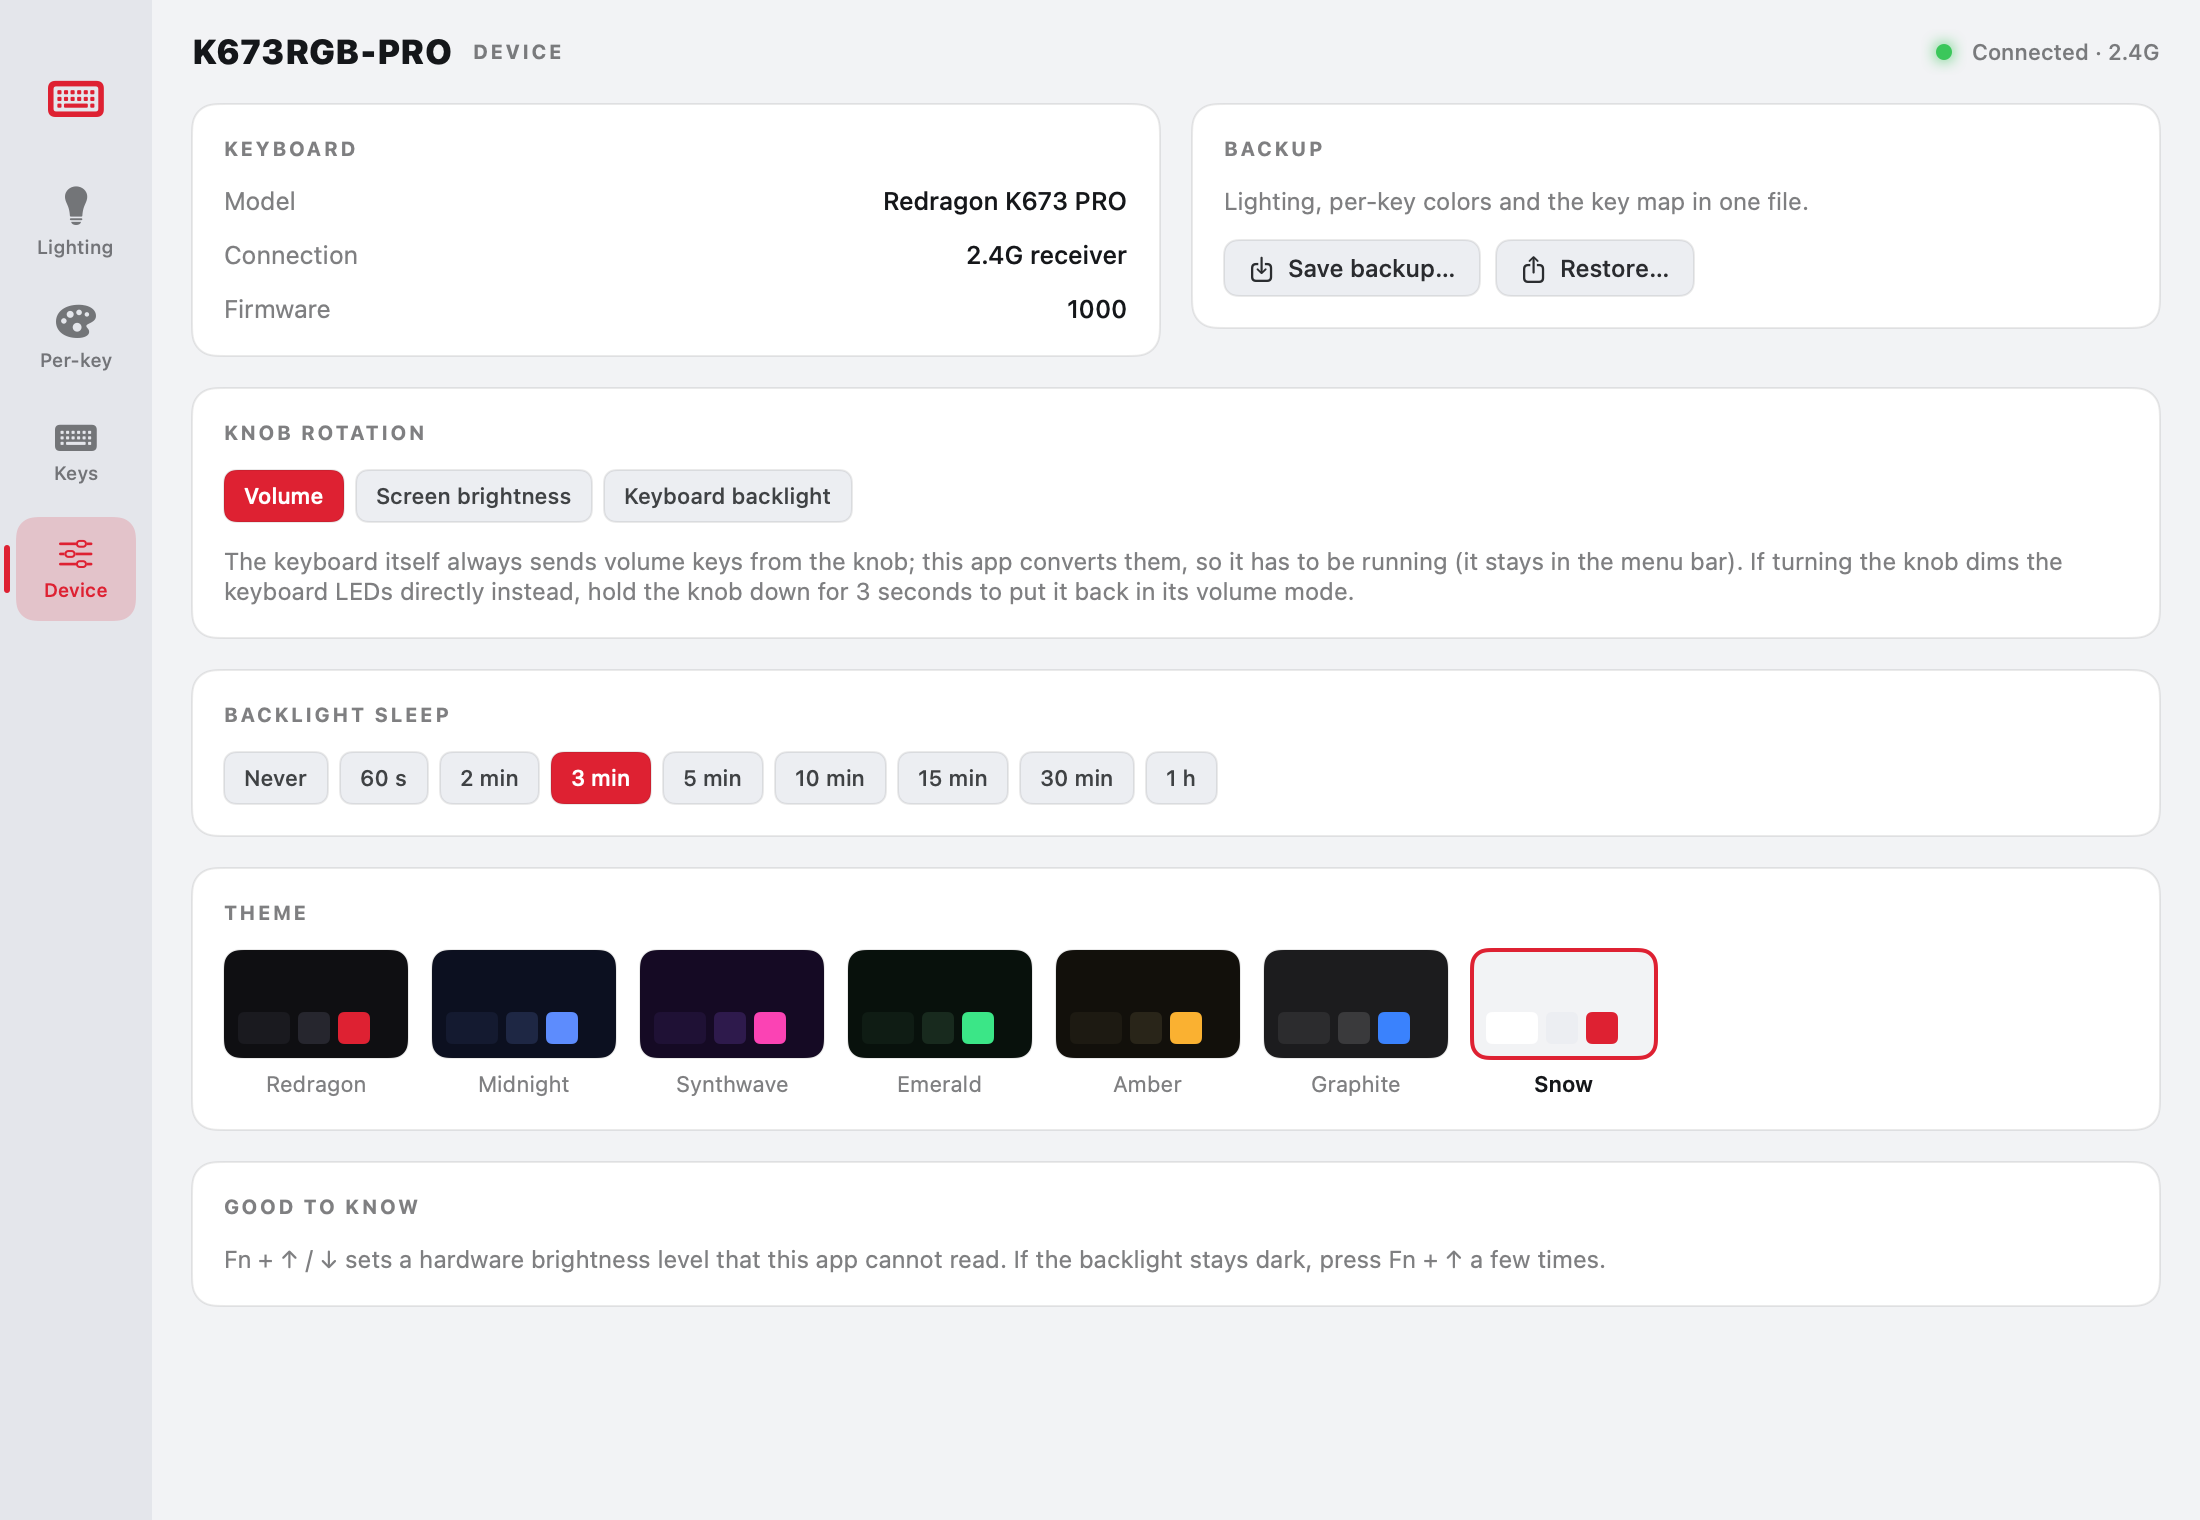
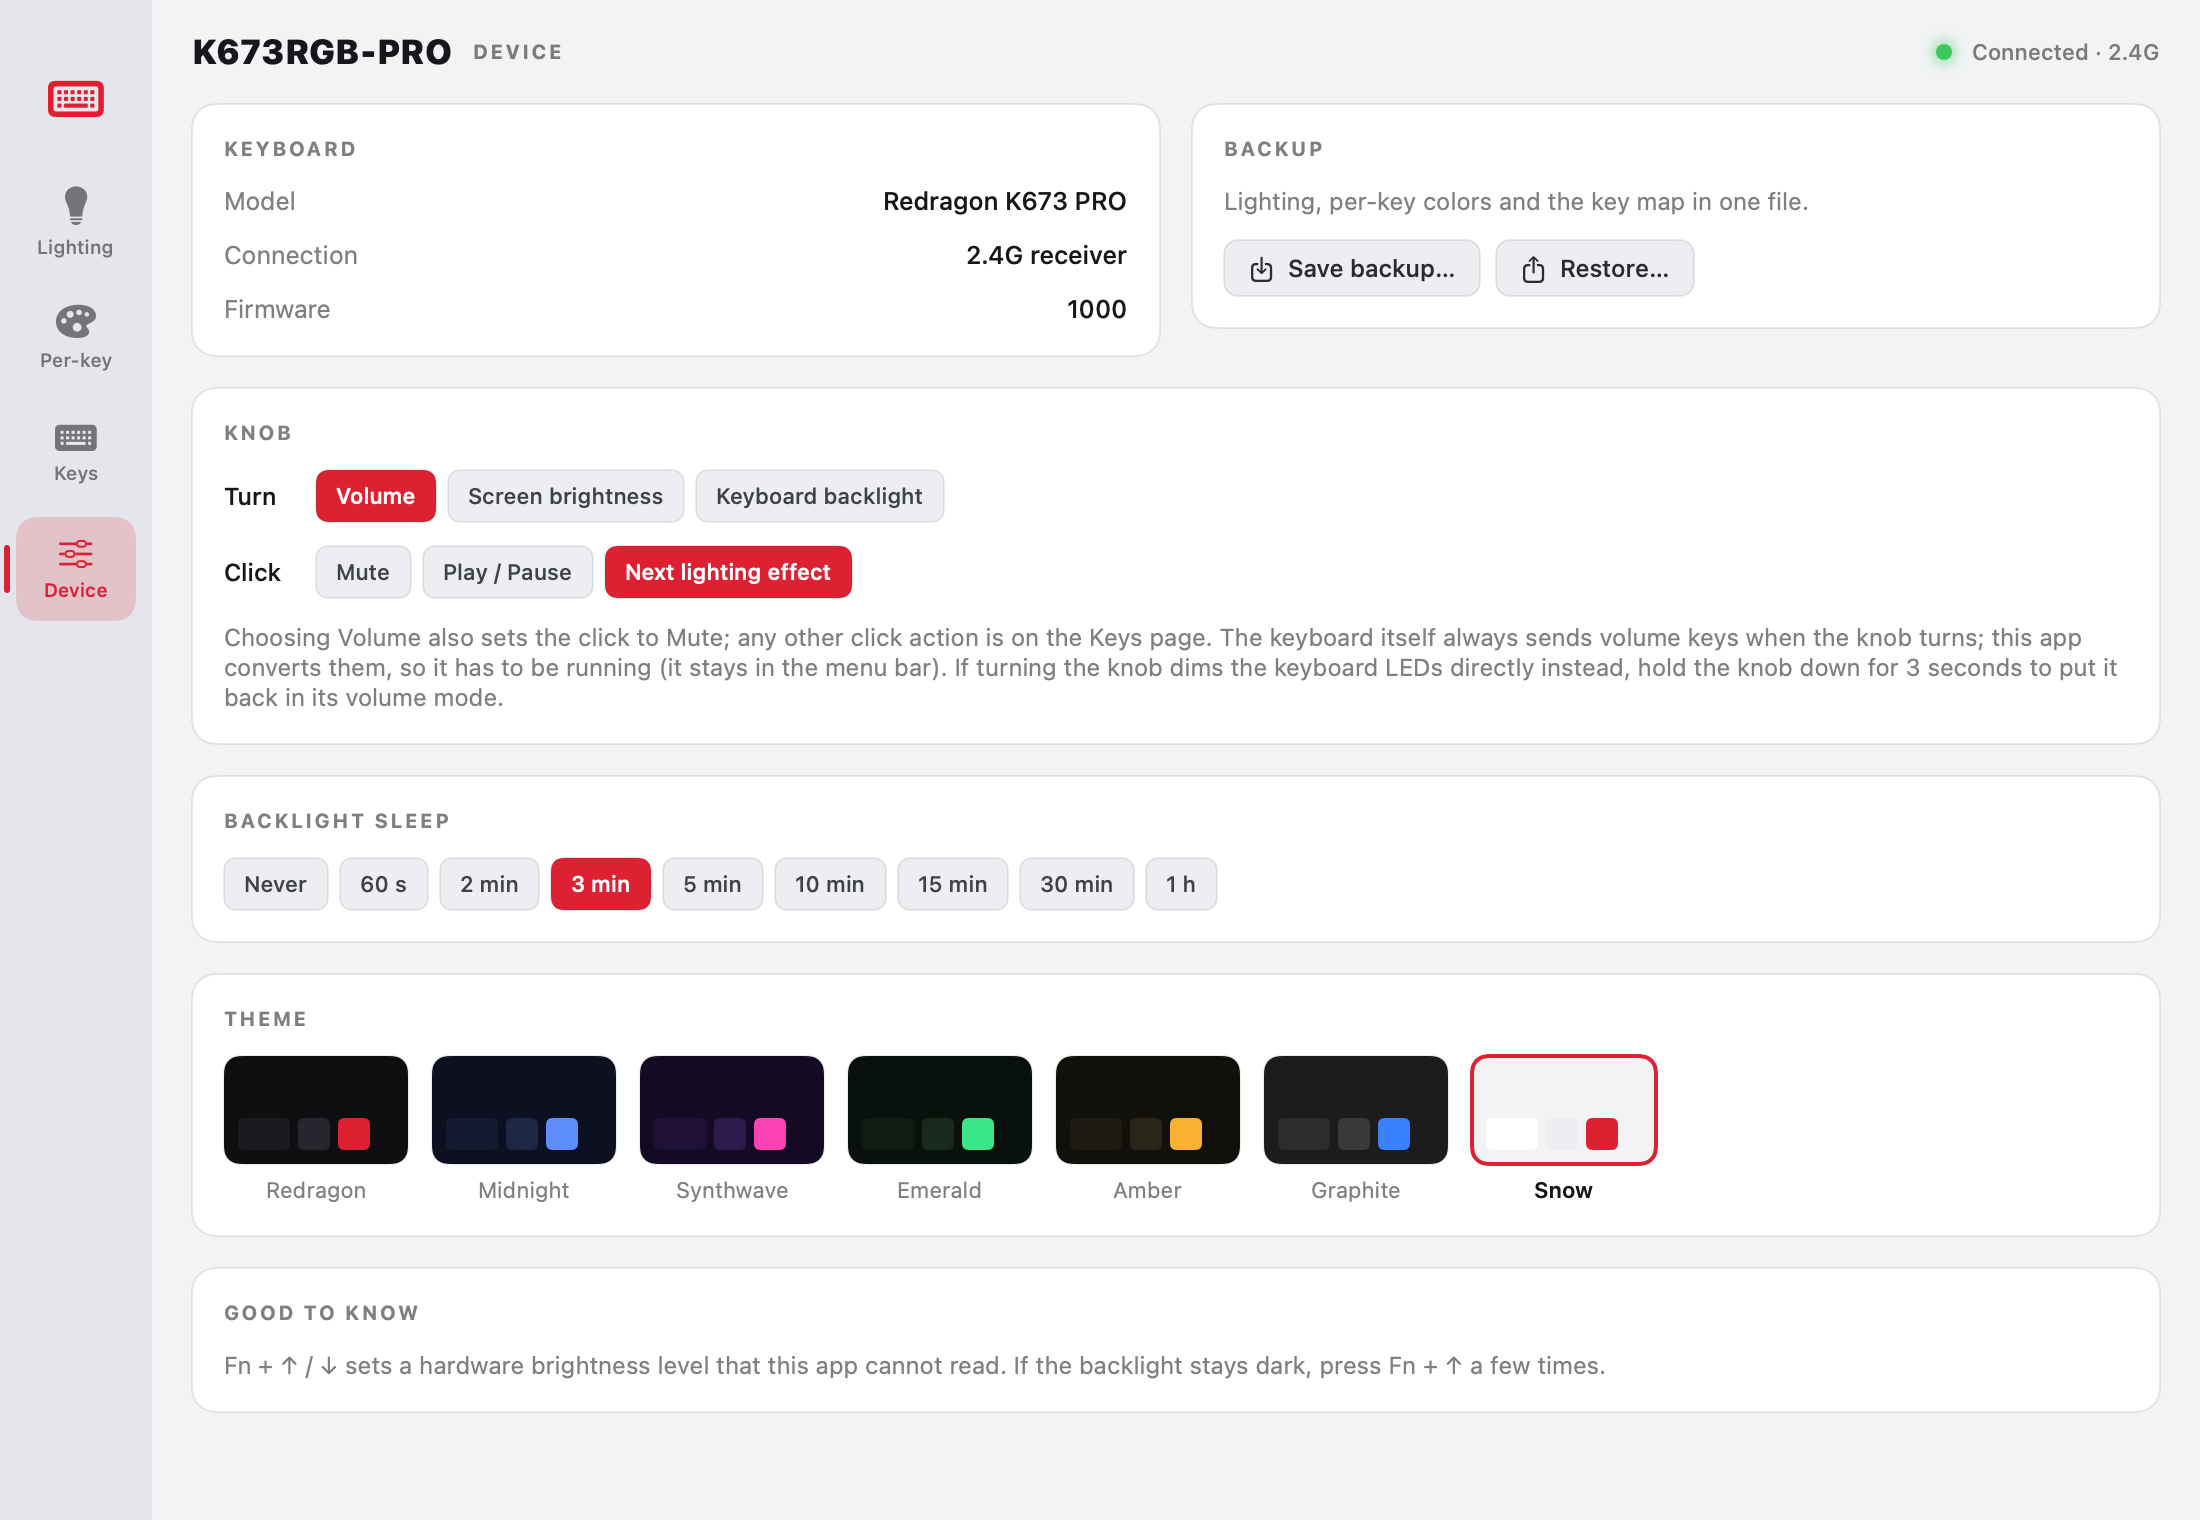
Knob click: mute in volume mode, with click options on the Device page
Volume mode now maps the knob click to Mute. The Device page gains a
Click row (Mute, Play/Pause, next lighting effect) and k673ctl accepts
Knob as a key name.

diff --git a/Sources/K673App/Pages.swift b/Sources/K673App/Pages.swift
@@ -278,10 +278,22 @@ struct DevicePage: View {
                         }
                     }
                 }
-                Card(title: "Knob rotation") {
+                Card(title: "Knob") {
                     HStack(spacing: 6) {
+                        Text("Turn").font(.system(size: 12, weight: .medium)).frame(width: 40, alignment: .leading)
                         ForEach(KnobMode.allCases) { mode in
                             Chip(title: mode.rawValue, active: model.knobMode == mode) { model.setKnobMode(mode) }
+                        }
+                    }
+                    if let matrix = model.matrix {
+                        let click = matrix[Layout.knobIndex]
+                        let factory = KeyMatrix.factory[Layout.knobIndex]
+                        HStack(spacing: 6) {
+                            Text("Click").font(.system(size: 12, weight: .medium)).frame(width: 40, alignment: .leading)
+                            Chip(title: "Mute", active: click == .mute) { model.remap(Layout.knobIndex, to: .mute) }
+                            Chip(title: "Play / Pause", active: click == .playPause) { model.remap(Layout.knobIndex, to: .playPause) }
+                            Chip(title: "Next lighting effect", active: click == factory) { model.remap(Layout.knobIndex, to: factory) }
+                            if ![.mute, .playPause, factory].contains(click) { Chip(title: click.title, active: true) {} }
                         }
                     }
                     if model.knobNeedsAccessibility {
@@ -295,7 +307,7 @@ struct DevicePage: View {
                             GhostButton(title: "Recheck", icon: "arrow.clockwise") { model.setKnobMode(model.knobMode) }
                         }
                     }
-                    Text("The keyboard itself always sends volume keys from the knob; this app converts them, so it has to be running (it stays in the menu bar). If turning the knob dims the keyboard LEDs directly instead, hold the knob down for 3 seconds to put it back in its volume mode.")
+                    Text("Choosing Volume also sets the click to Mute; any other click action is on the Keys page. The keyboard itself always sends volume keys when the knob turns; this app converts them, so it has to be running (it stays in the menu bar). If turning the knob dims the keyboard LEDs directly instead, hold the knob down for 3 seconds to put it back in its volume mode.")
                         .font(.system(size: 12))
                         .foregroundStyle(Theme.dim)
                         .fixedSize(horizontal: false, vertical: true)

diff --git a/Sources/k673ctl/main.swift b/Sources/k673ctl/main.swift
@@ -36,7 +36,7 @@ func color(_ s: String?) -> RGB {
 }
 
 func findKey(_ name: String) -> KeyDef {
-    guard let k = Layout.keys.first(where: { $0.name.caseInsensitiveCompare(name) == .orderedSame }) else {
+    guard let k = (Layout.keys + [Layout.knob]).first(where: { $0.name.caseInsensitiveCompare(name) == .orderedSame }) else {
         fail("Unknown key '\(name)'. Run `k673ctl keys`.")
     }
     return k
@@ -73,7 +73,7 @@ case "effects":
     for e in Effect.all { print(String(format: "%2d  %@", e.id, e.name)) }
     exit(0)
 case "keys":
-    print(Layout.keys.map(\.name).joined(separator: " "))
+    print((Layout.keys + [Layout.knob]).map(\.name).joined(separator: " "))
     exit(0)
 case "actions":
     for (group, items) in Dictionary(grouping: KeyAction.catalog, by: \.group).sorted(by: { $0.key < $1.key }) {

diff --git a/Sources/K673App/AppModel.swift b/Sources/K673App/AppModel.swift
@@ -46,6 +46,7 @@ final class AppModel: ObservableObject {
         UserDefaults.standard.set(mode.rawValue, forKey: "knobMode")
         knob.setSuppressVolume(mode != .volume)
         knobNeedsAccessibility = knob.tapState == .needsAccessibility
+        if mode == .volume { remap(Layout.knobIndex, to: .mute) }
     }
 
     private func knobTurned(_ clockwise: Bool) {
@@ -147,7 +148,7 @@ final class AppModel: ObservableObject {
     }
 
     func remap(_ index: Int, to action: KeyAction) {
-        guard var m = matrix else { return }
+        guard var m = matrix, m[index] != action else { return }
         m[index] = action
         matrix = m
         schedule("matrix") { try $0.writeKeyMatrix(m) }

diff --git a/Sources/K673Kit/KeyAction.swift b/Sources/K673Kit/KeyAction.swift
@@ -12,6 +12,8 @@ public struct KeyAction: Equatable, Hashable, Sendable {
     public static func consumer(_ usage: UInt16) -> KeyAction { KeyAction(raw: [2, 0, UInt8(usage >> 8), UInt8(usage & 0xff)]) }
     public static let fn = KeyAction(raw: [0x0d, 0, 0, 0])
     public static let disabled = KeyAction(raw: [0, 0, 0, 0])
+    public static let mute = KeyAction.consumer(0xe2)
+    public static let playPause = KeyAction.consumer(0xcd)
     public static let backlightUp = KeyAction(raw: [8, 3, 1, 0])
     public static let backlightDown = KeyAction(raw: [8, 3, 2, 0])
 

diff --git a/README.md b/README.md
@@ -34,7 +34,7 @@ from the vendor software and verified on real hardware.
 ![Key remapping](docs/screenshots/keys.png)
 
 ### Knob
-Choose what turning the knob does: **Volume**, **Screen brightness** or **Keyboard backlight**.
+Choose what turning the knob does — **Volume**, **Screen brightness** or **Keyboard backlight** — and what a click does (**Mute**, **Play/Pause**, next lighting effect, or anything from the Keys page). Volume mode sets the click to Mute.
 The firmware hardwires the knob to volume keys, so the app converts them on the Mac (see [Knob](#knob)); it stays
 in the menu bar to keep doing that with the window closed.
 
